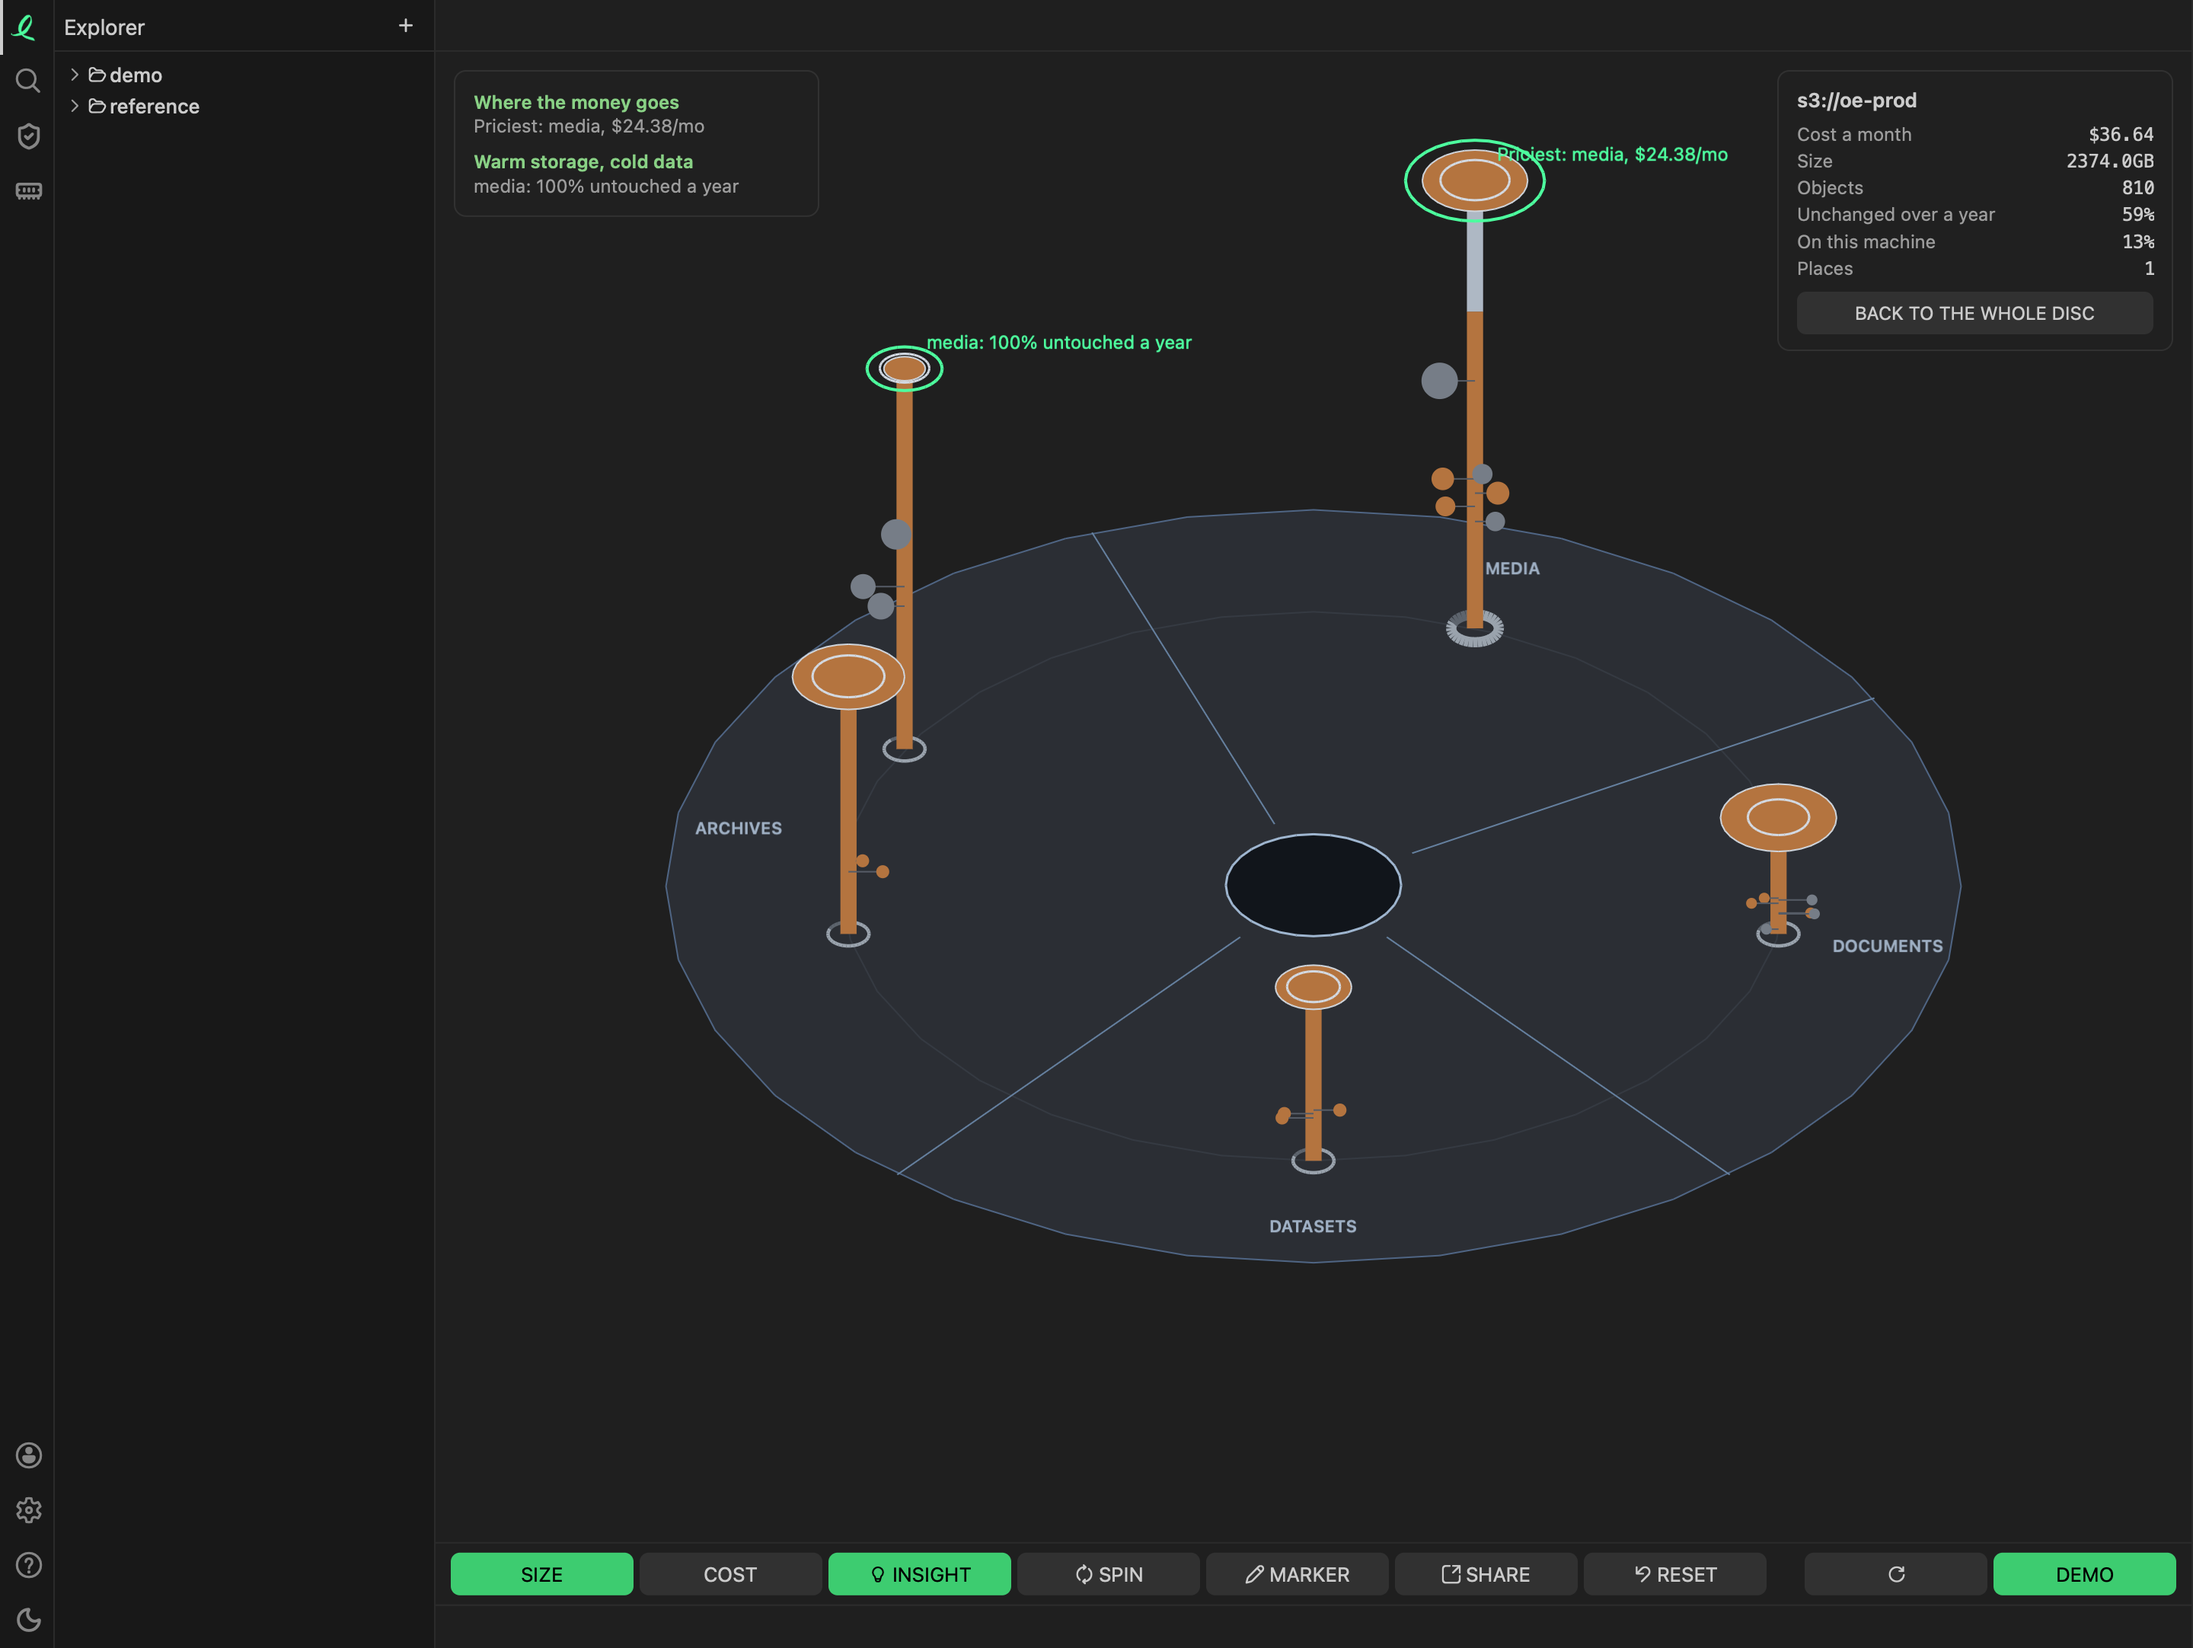
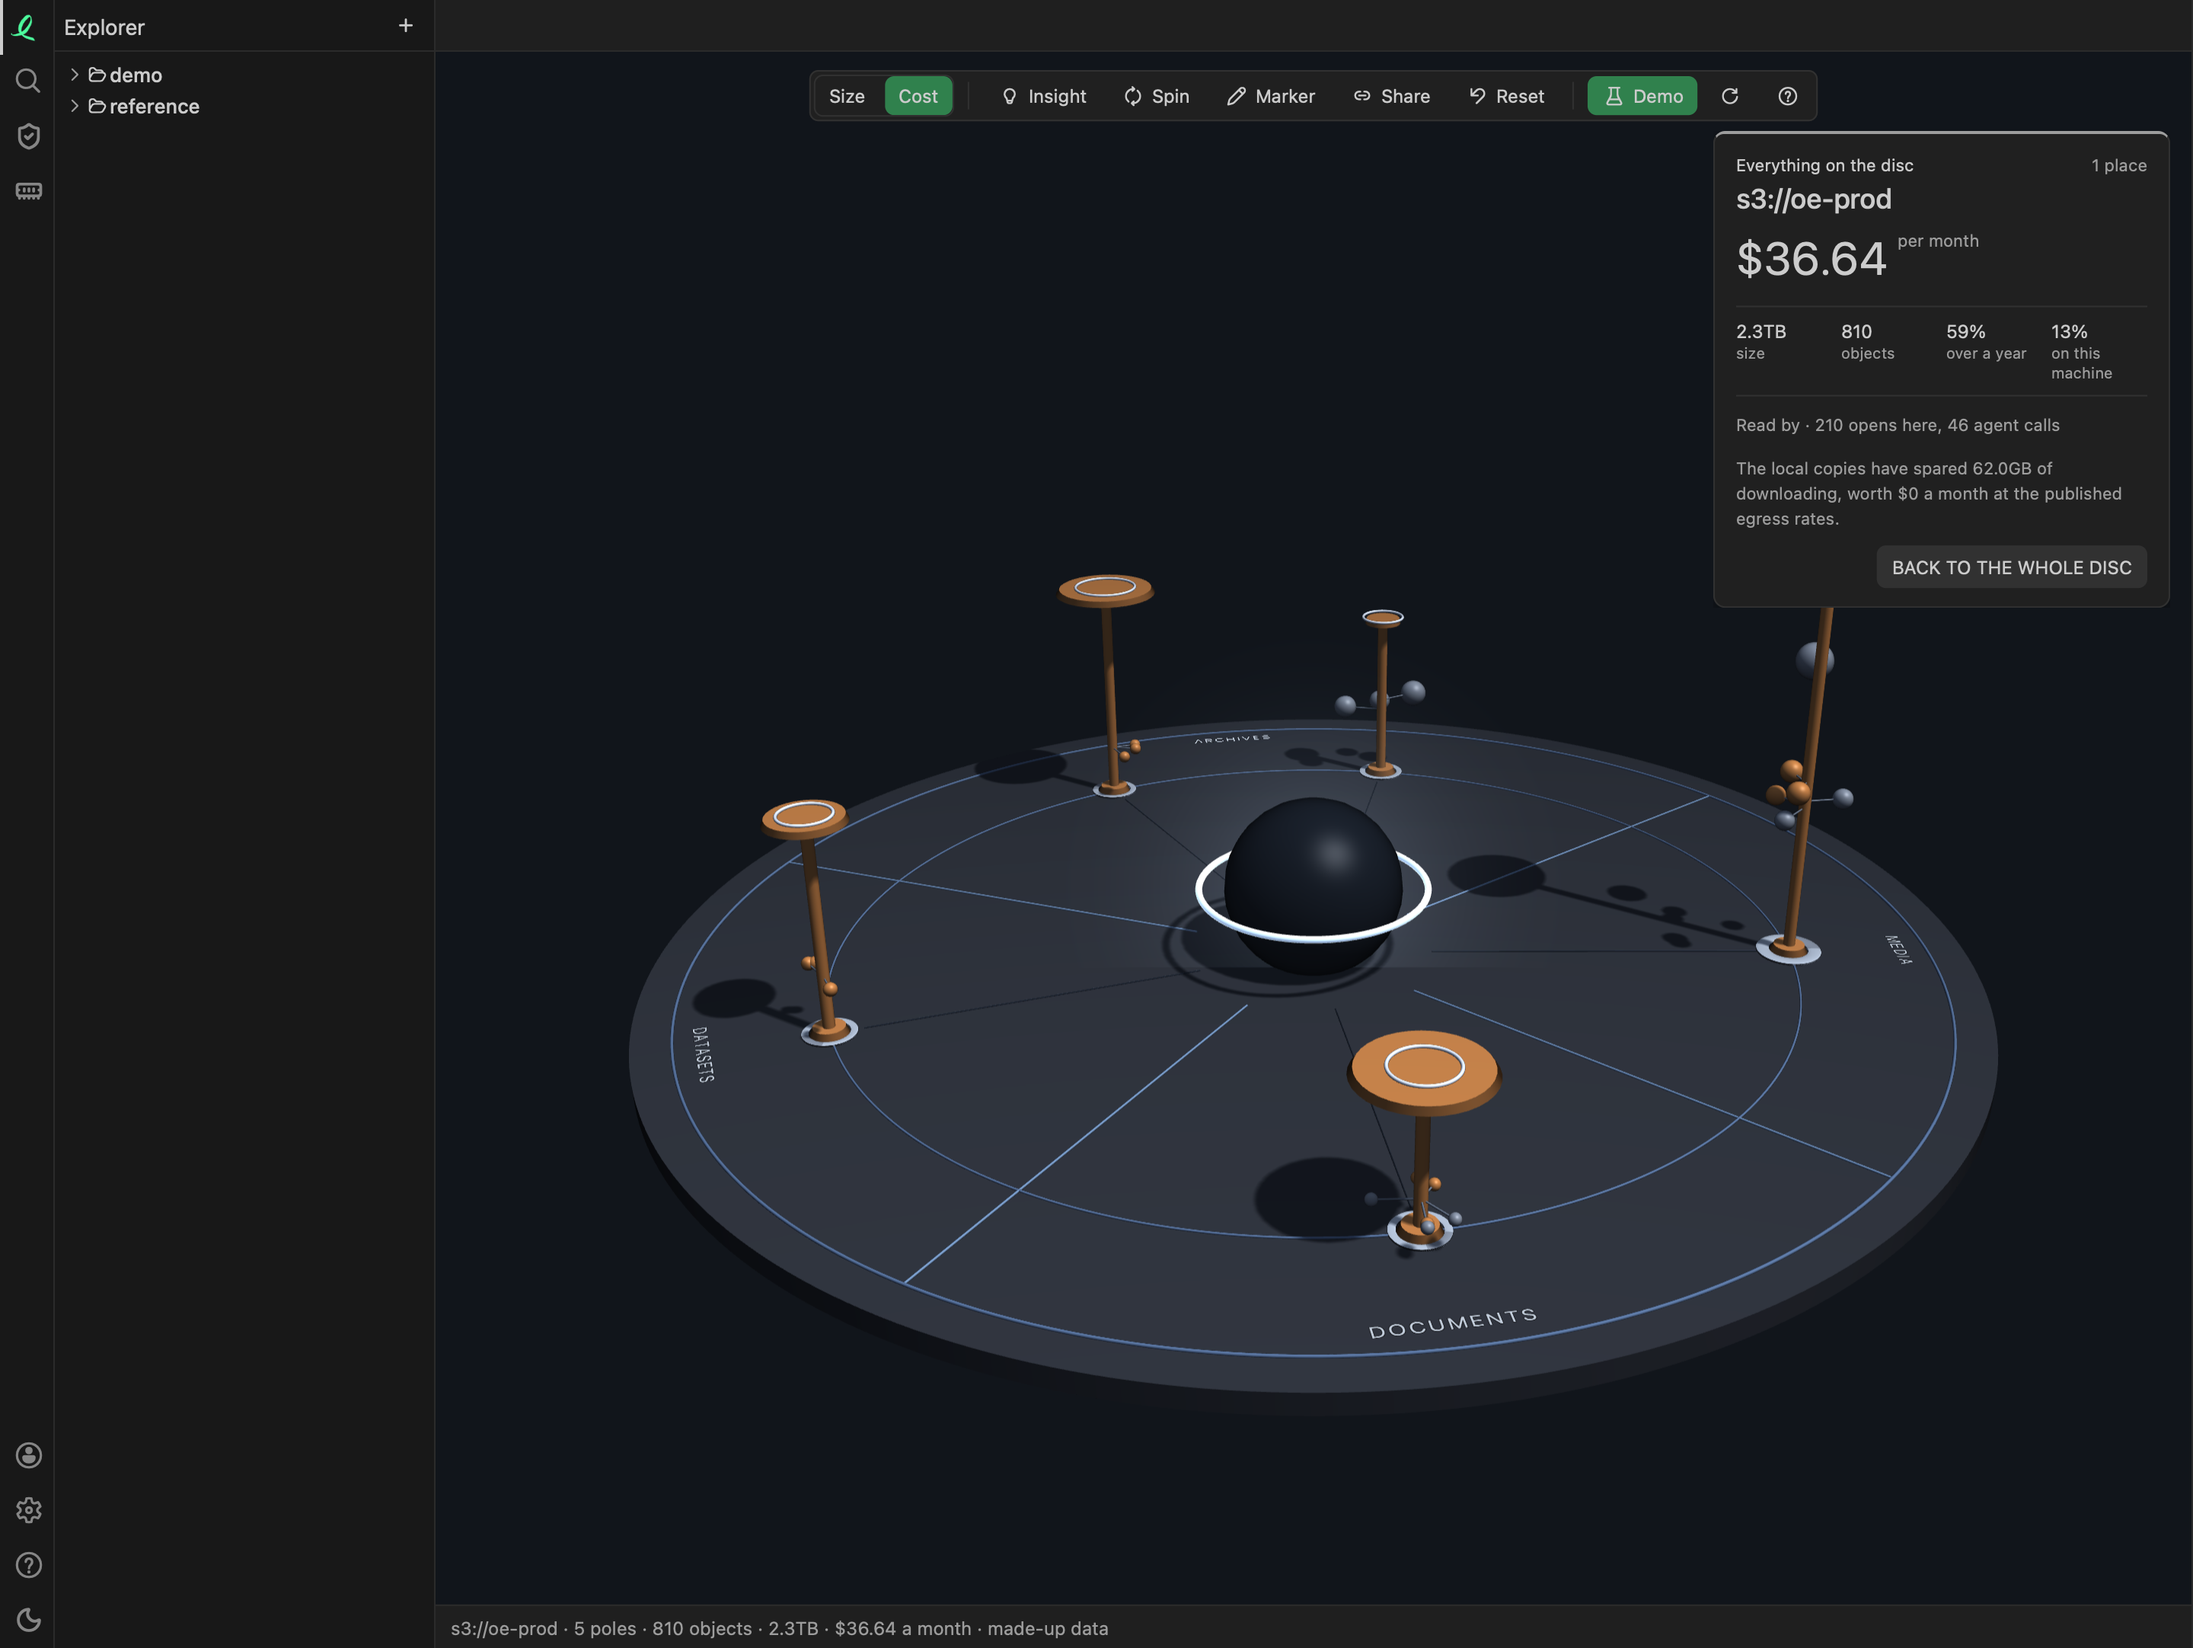
usage: the disc is drawn in 3D on the GPU; screenshots retaken from the ported view

diff --git a/docs/explore/usage.md b/docs/explore/usage.md
@@ -81,8 +81,8 @@ to the whole disc.
 
 ## The card
 
-Point at anything and a card beside the disc says what it is; click and the card stays up while you
-turn the disc.
+Point at anything and it lights up, and a card beside the disc says what it is; click and the card
+stays up while you turn the disc.
 
 - **A pole** shows its size, cost, object count and share over a year, the age of its bytes, how much
   is on this machine, who has read it, how much of it is held twice, its six named objects — click
@@ -104,7 +104,8 @@ one had to be borrowed.
 
 ## The toolbar
 
-Along the bottom of the disc, beside **Refresh** and the **Demo** switch:
+Across the top of the disc, beside the **Demo** switch, **Refresh** and **?**, which walks you
+round the marks one at a time, turning each to the front as it names it:
 
 | Button          | What it does                                                                                                                       |
 |-----------------|------------------------------------------------------------------------------------------------------------------------------------|
@@ -171,8 +172,11 @@ have offered.
 
 ## Moving around it
 
-The disc is drawn as a flat projection, and moves like a three-dimensional view: drag to turn,
-`⇧`-drag to pan, wheel to zoom, double-click to start over. The full list is on [moving around a view](/reference/view-controls).
+The disc is a real three-dimensional scene, drawn on the GPU (Metal on a Mac, Vulkan on Linux,
+Direct3D on Windows, WebGPU in the browser): lit from one side, every pole casting its shadow on the
+plate, the sector names painted on the plate itself, and whatever is picked glowing. Drag to turn
+it, `⇧`-drag to pan, wheel to zoom toward the pointer, double-click to start over; the poles grow
+to their new heights when Size and Cost are switched. The full list is on [moving around a view](/reference/view-controls).
 
 Click a pole, a ball or the hub in the middle to pin its numbers; click empty space or press `Escape`
 to let go. An arch has no card of its own: click either end.
